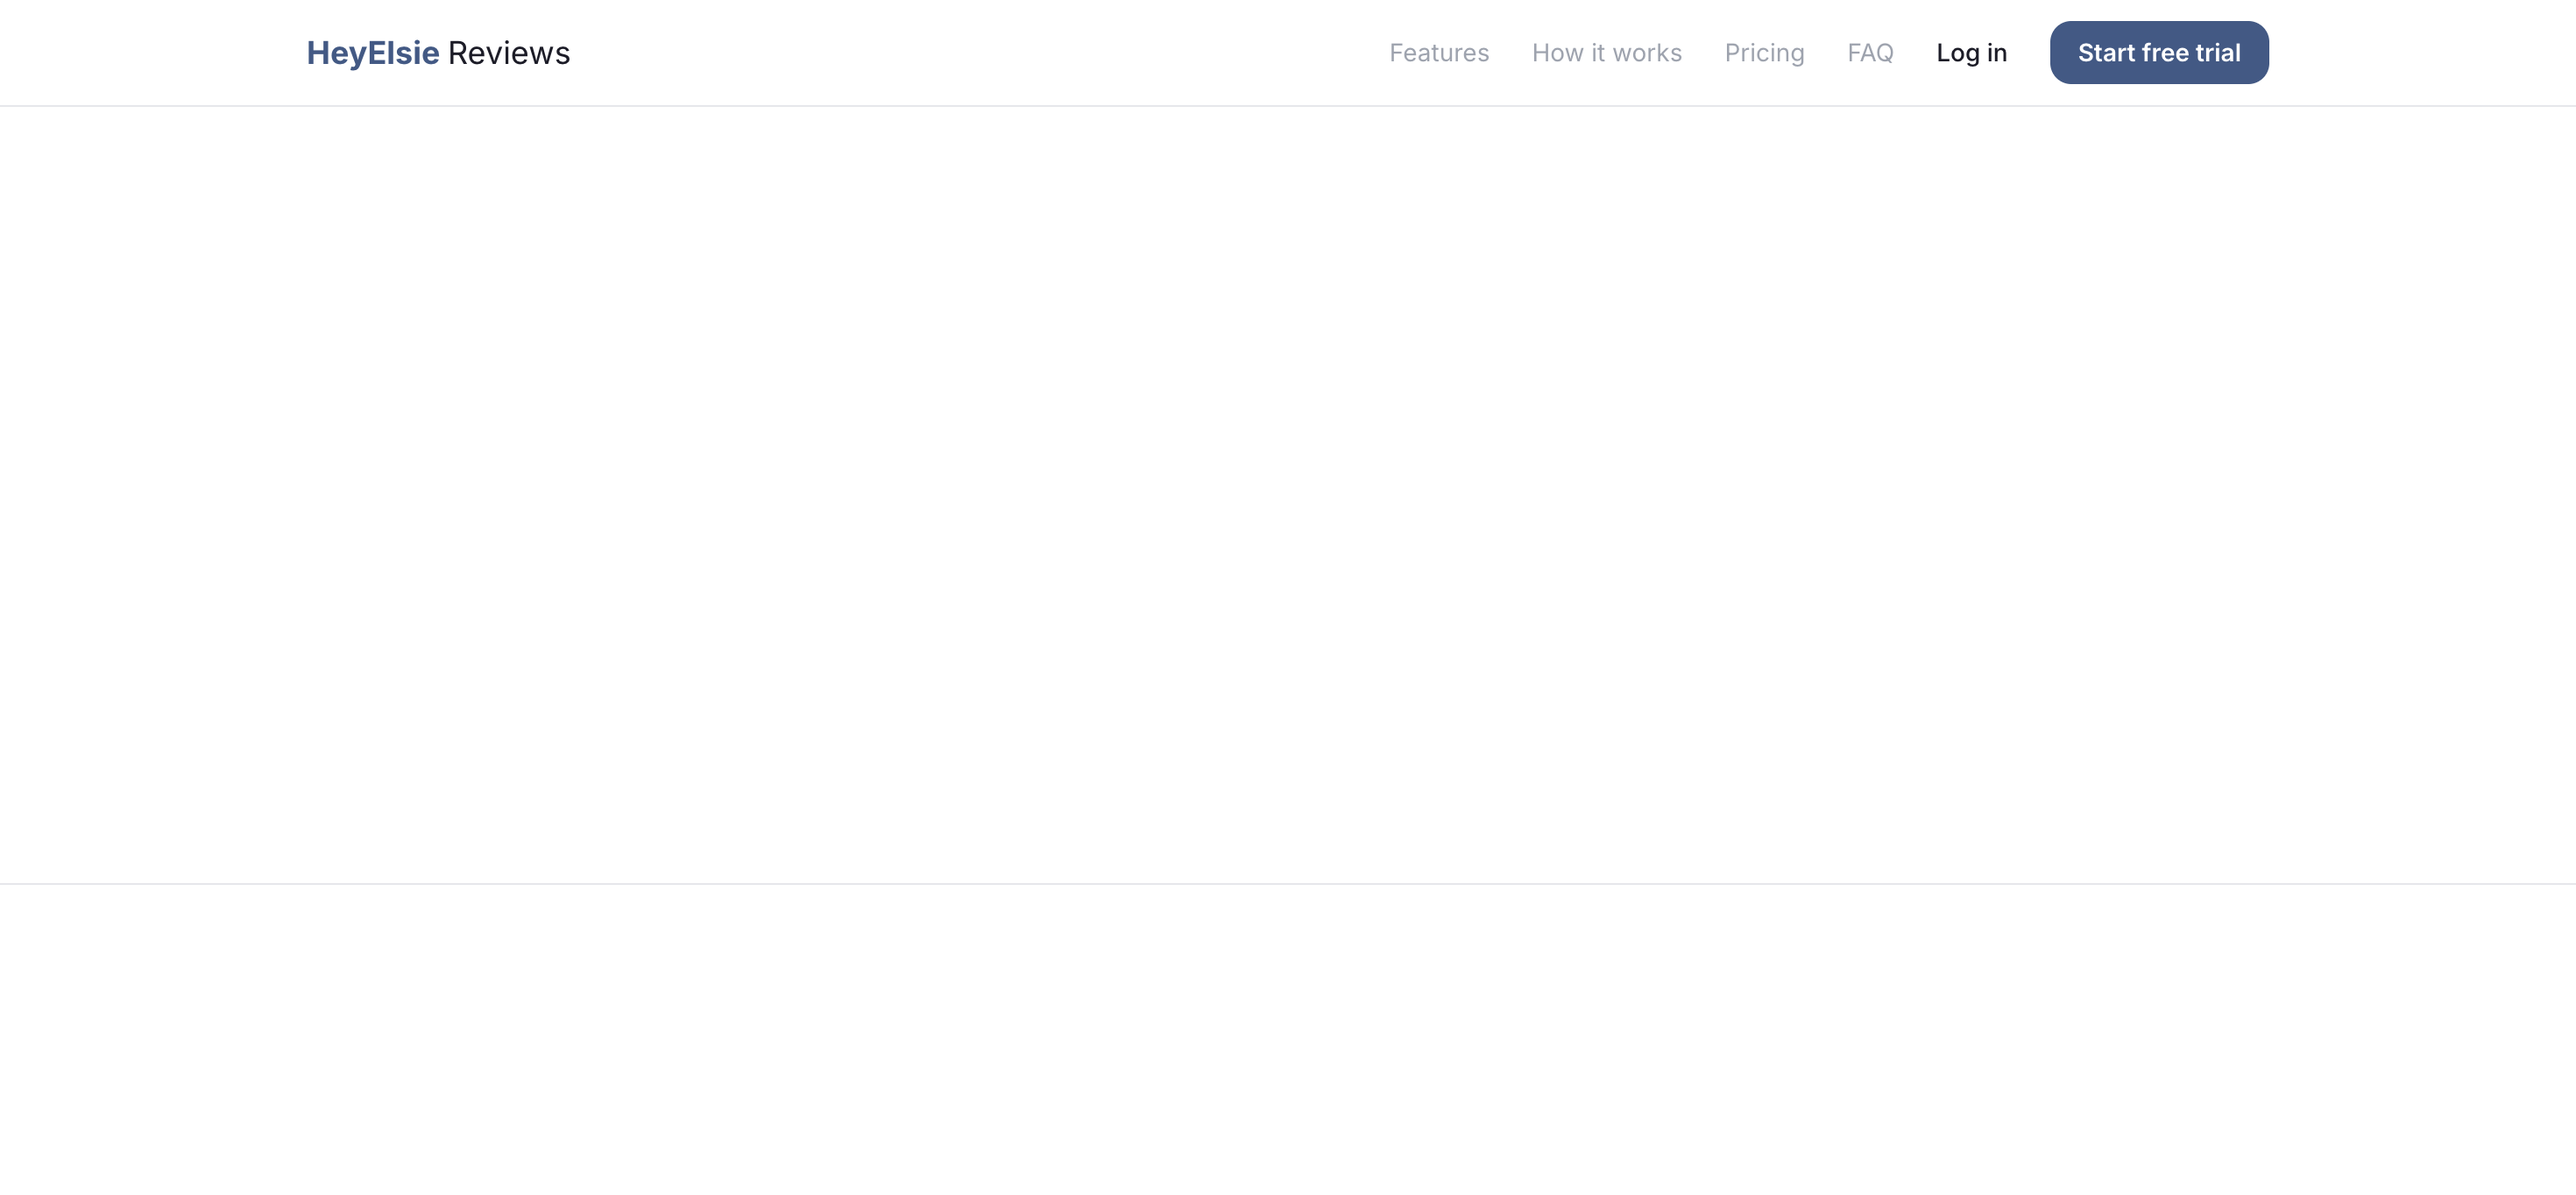
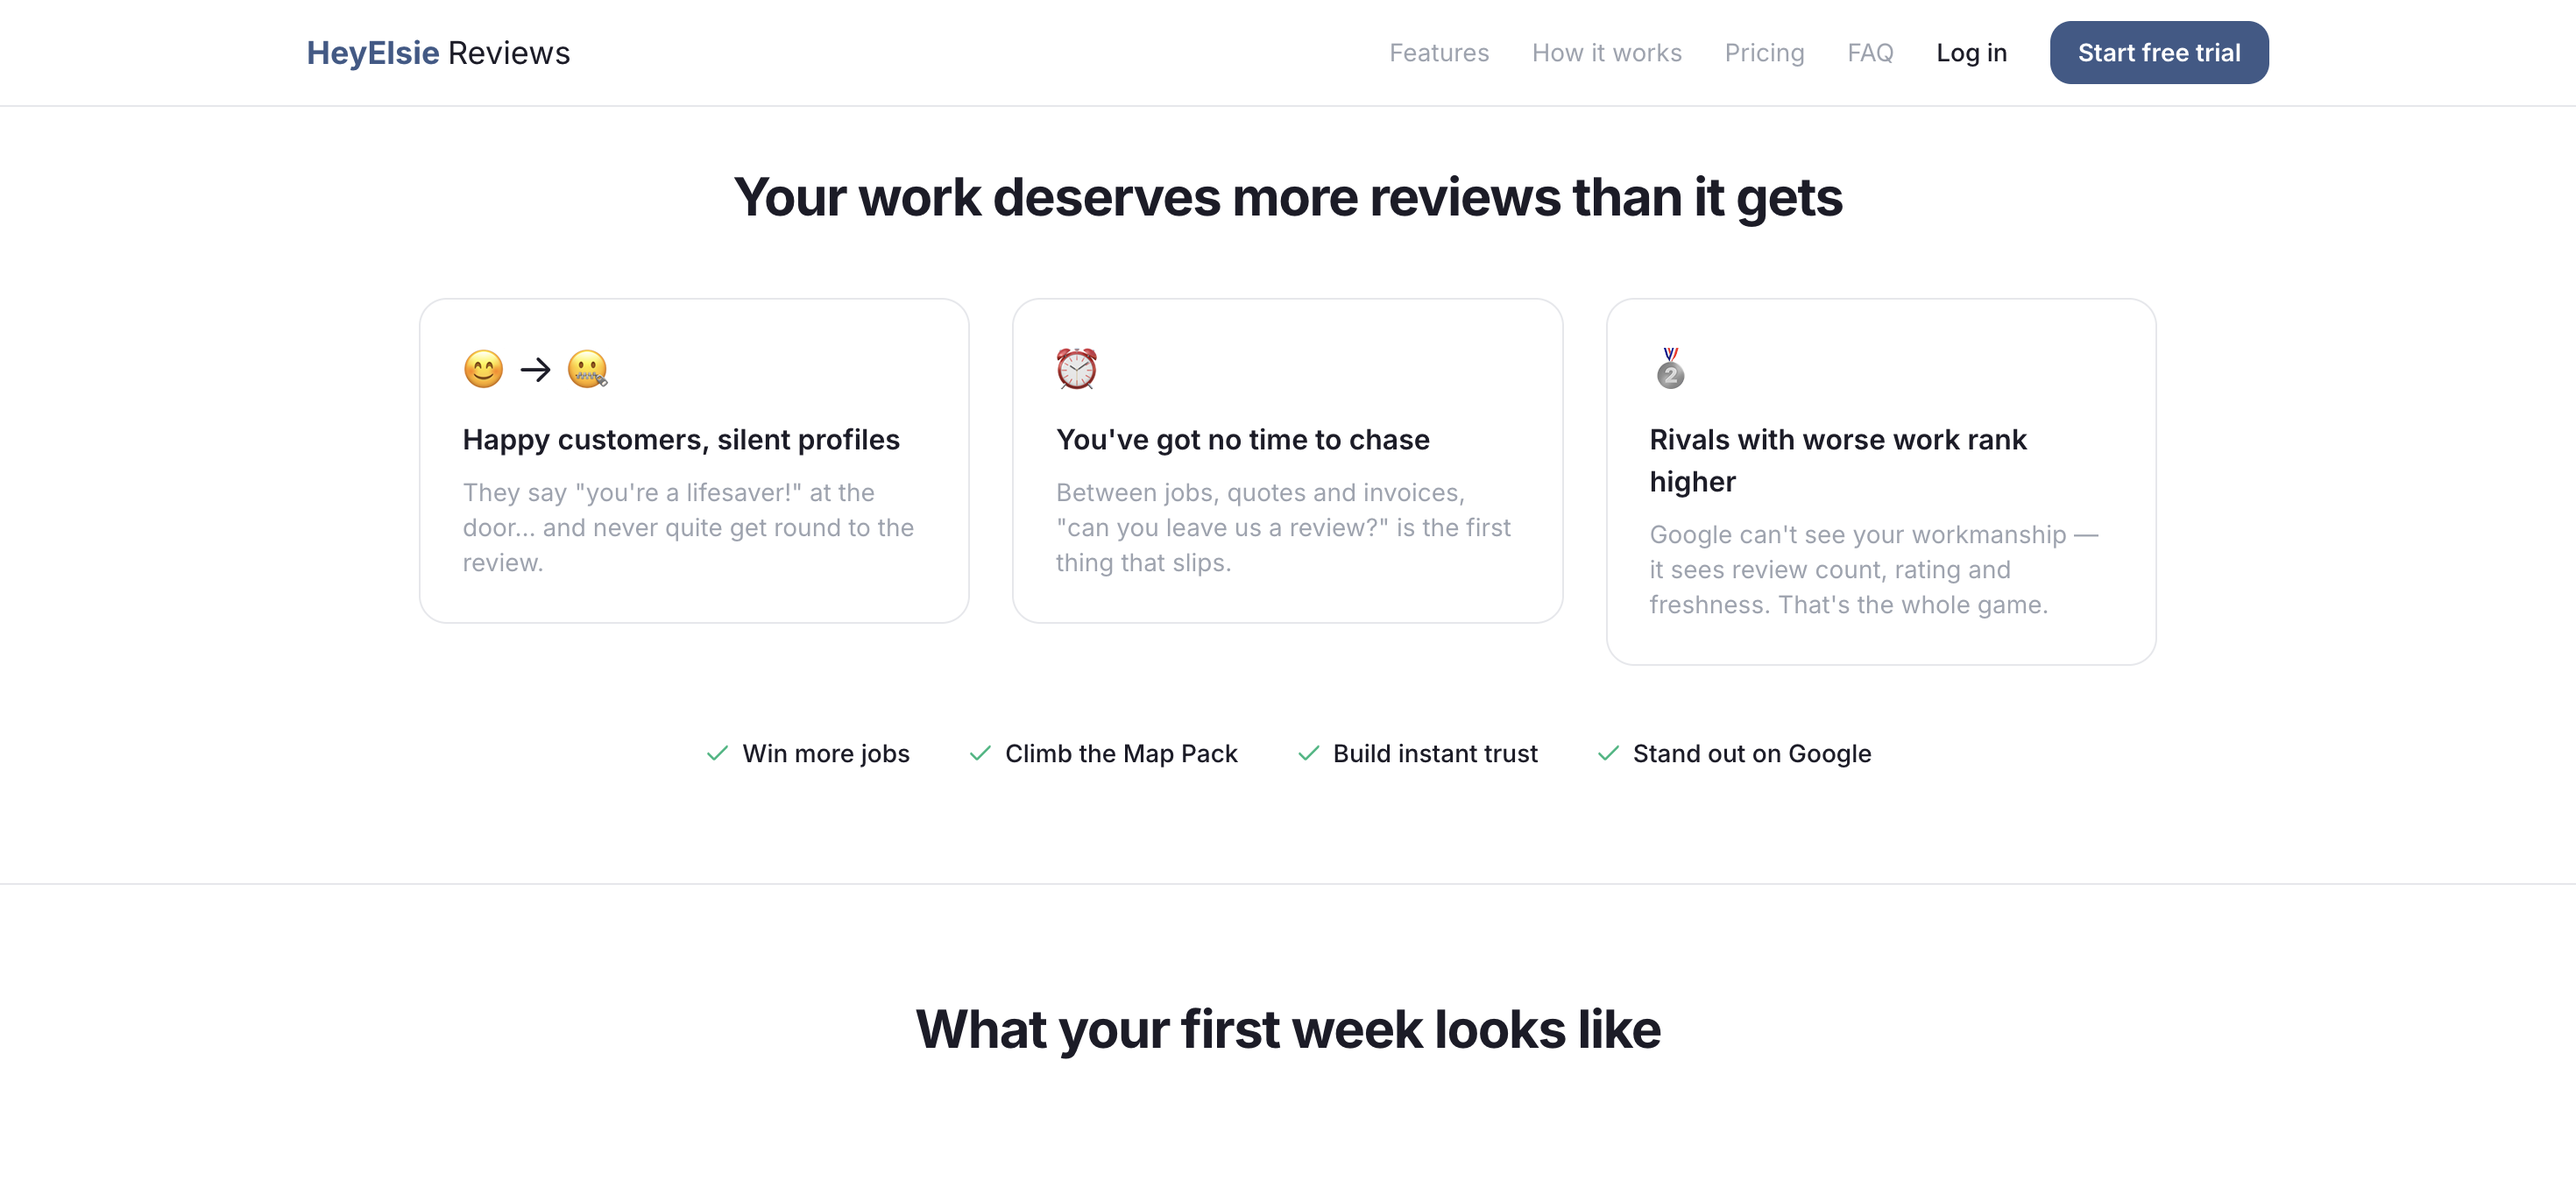
Kimi-verification fixes: first-paint-visible landing reveals, always-on Milestones block, per-surface document titles

diff --git a/src/features/landing/LandingPage.tsx b/src/features/landing/LandingPage.tsx
@@ -21,16 +21,21 @@ const NAV_LINKS: [string, string][] = [
   ['FAQ', '#faq'],
 ]
 
+/** Progressive-enhancement reveal: content is VISIBLE on first paint (so
+ *  crawlers/no-scroll renders always see it); only below-the-fold elements get
+ *  hidden after mount and animate in on intersection. */
 function Reveal({
   children, delay = 0, className = '',
 }: { children: ReactNode; delay?: number; className?: string }) {
   const ref = useRef<HTMLDivElement>(null)
-  const [shown, setShown] = useState(false)
+  const [hidden, setHidden] = useState(false)
   useEffect(() => {
     const el = ref.current
-    if (!el || typeof IntersectionObserver === 'undefined') { setShown(true); return }
+    if (!el || typeof IntersectionObserver === 'undefined') return
+    if (el.getBoundingClientRect().top < window.innerHeight) return // in view — never hide
+    setHidden(true)
     const io = new IntersectionObserver(
-      ([e]) => { if (e.isIntersecting) { setShown(true); io.disconnect() } },
+      ([e]) => { if (e.isIntersecting) { setHidden(false); io.disconnect() } },
       { threshold: 0.1, rootMargin: '0px 0px -6% 0px' },
     )
     io.observe(el)
@@ -38,7 +43,7 @@ function Reveal({
   }, [])
   return (
     <div ref={ref} style={{ transitionDelay: `${delay}ms` }}
-      className={`transition-all duration-700 ${shown ? 'opacity-100 translate-y-0' : 'opacity-0 translate-y-6'} ${className}`}>
+      className={`transition-all duration-700 ${hidden ? 'opacity-0 translate-y-6' : 'opacity-100 translate-y-0'} ${className}`}>
       {children}
     </div>
   )
@@ -108,6 +113,10 @@ const FAQS: [string, string][] = [
 export default function LandingPage() {
   const [menuOpen, setMenuOpen] = useState(false)
   const [openFaq, setOpenFaq] = useState<number | null>(0)
+
+  useEffect(() => {
+    document.title = 'HeyElsie Reviews — Get 4x more Google reviews'
+  }, [])
 
   return (
     <div className="min-h-screen bg-bg text-ink">

diff --git a/src/features/reviews/pages/ReviewsDashboardPage.tsx b/src/features/reviews/pages/ReviewsDashboardPage.tsx
@@ -200,10 +200,10 @@ export default function ReviewsDashboardPage() {
             </div>
 
             {/* Milestones */}
-            {milestones.length > 0 && (
-              <div>
-                <p className="text-xs font-semibold text-ink">Milestones</p>
-                <p className="mb-2 text-[11px] text-ink-subtle">Reviews needed to reach each rating level</p>
+            <div>
+              <p className="text-xs font-semibold text-ink">Milestones</p>
+              <p className="mb-2 text-[11px] text-ink-subtle">Reviews needed to reach each rating level</p>
+              {milestones.length > 0 ? (
                 <div className="space-y-1.5">
                   {milestones.map((m) => (
                     <div key={m.target} className="flex items-center gap-2 text-xs">
@@ -215,8 +215,14 @@ export default function ReviewsDashboardPage() {
                     </div>
                   ))}
                 </div>
-              </div>
-            )}
+              ) : (
+                <p className="rounded-lg bg-border/30 p-2 text-[11px] text-ink-subtle">
+                  {total === 0
+                    ? 'Milestones appear once your Google profile is connected and has its first reviews.'
+                    : 'Your rating is already at the top — keep the reviews coming to hold it there.'}
+                </p>
+              )}
+            </div>
 
             <div className="flex gap-2">
               {conn?.maps_url && (

diff --git a/src/features/reviews/ReviewsApp.tsx b/src/features/reviews/ReviewsApp.tsx
@@ -162,6 +162,10 @@ function Shell({ session }: { session: ReviewsSession }) {
 
 export default function ReviewsApp() {
   const [params] = useSearchParams()
+
+  useEffect(() => {
+    document.title = 'HeyElsie Reviews'
+  }, [])
   const [state, setState] = useState<{ loading: boolean; session: ReviewsSession | null; authed: boolean }>({
     loading: true, session: null, authed: false,
   })
